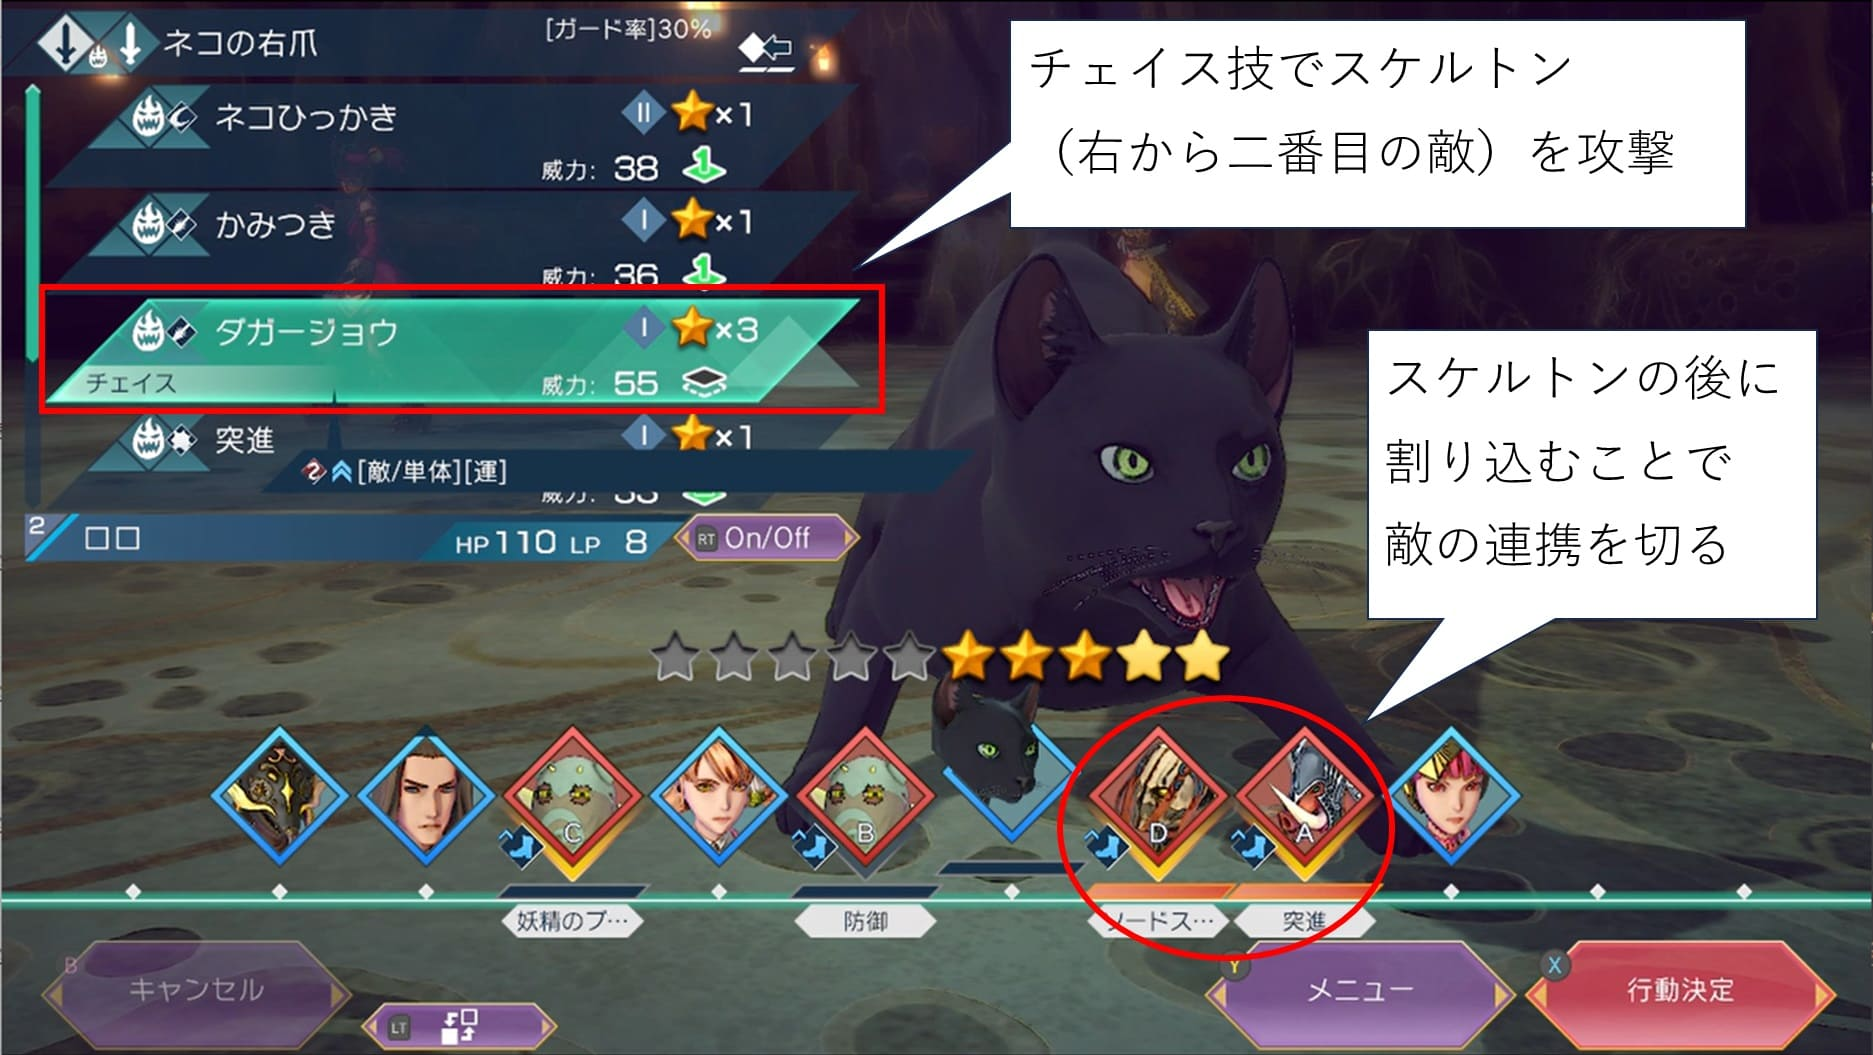
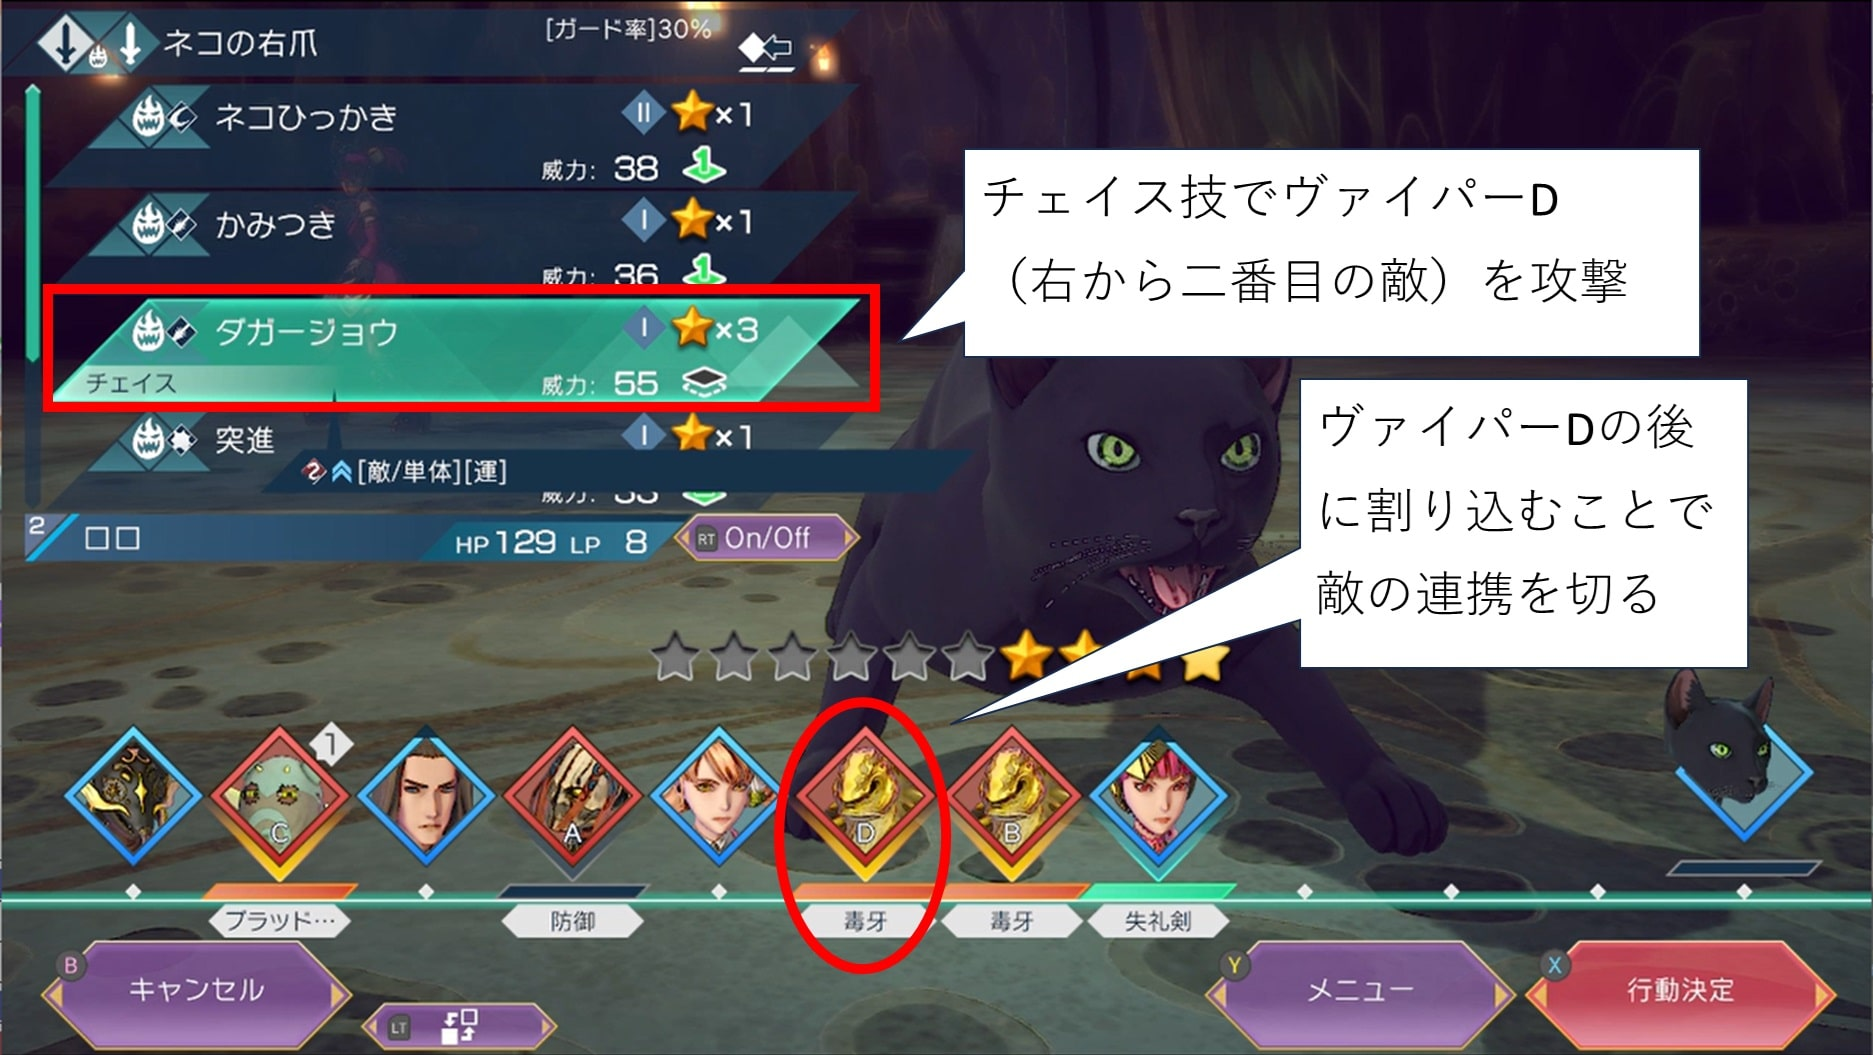
チェイスの動画をshortに変更

diff --git a/contents/emerald/battle/battle_fundamentals.html b/contents/emerald/battle/battle_fundamentals.html
@@ -524,12 +524,9 @@
         <img src="./img/チェイスで割り込む.jpg" width="500" /><br/>
 
         <br/>
-        実際に技が発動している様子がこちら。スケルトンのソードスロウの後にダガージョウが発動することで連携に割り込んでいることがわかります。<br/>
+        実際に技が発動している様子がこちら。ヴァイパーDの毒牙の後にダガージョウが発動することで連携に割り込んでいることがわかります。<br/>
       </p>
       <iframe width="417" height="742" src="https://www.youtube.com/embed/jLDTlXQFxhc" title="【サガエメ】敵の連携の割り込みに有用な技『チェイス』の紹介　【サガエメラルドビヨンド】 #shirts  #サガエメ #サガエメラルドビヨンド" frameborder="0" allow="accelerometer; autoplay; clipboard-write; encrypted-media; gyroscope; picture-in-picture; web-share" referrerpolicy="strict-origin-when-cross-origin" allowfullscreen></iframe>
-      <!-- <div class="youtube">
-        <iframe width="560" height="315" src="https://www.youtube.com/embed/7bOojfkb1kY?si=S3ieAC4eKndSEvdF" title="YouTube video player" frameborder="0" allow="accelerometer; autoplay; clipboard-write; encrypted-media; gyroscope; picture-in-picture; web-share" referrerpolicy="strict-origin-when-cross-origin" allowfullscreen></iframe>
-      </div> -->
       <br/>
 
       <br/>
